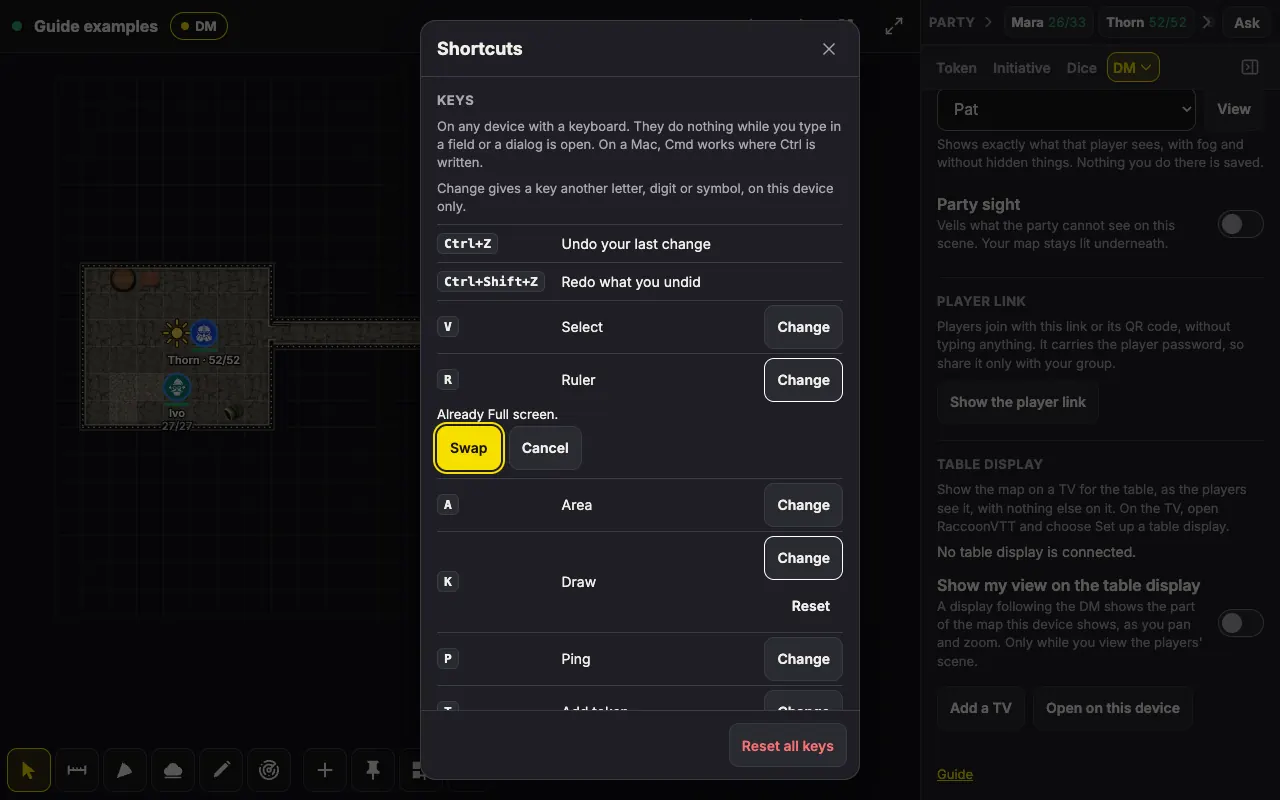
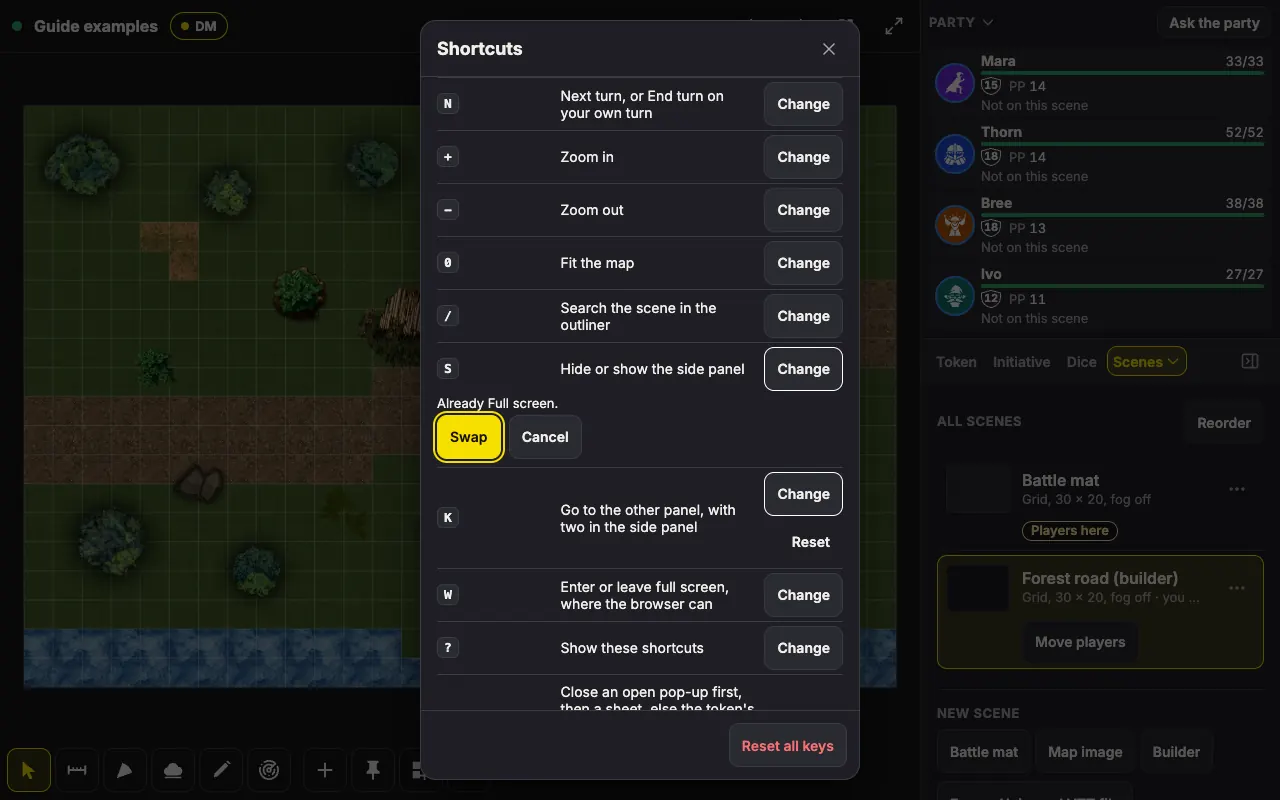
docs(guide): retake the shortcut list on a computer down to the W row, with Change, Reset and Swap clear of every row's words

diff --git a/docs/dm-guide.md b/docs/dm-guide.md
@@ -1036,7 +1036,7 @@ This part is for quick lookups during play, starting with the keys that save a D
 
 Press `?` (or open the Menu, then **This device**, then **Show the shortcuts**) for the full list of shortcuts for your role.
 
-![The shortcut list the ? key opens: Change beside each key, Reset beside Draw after its move to K, and Swap for Ruler, since Full screen already has W.](dm-guide/shortcuts.webp)
+![The shortcut list the ? key opens, down to W for full screen: Change beside each key, Reset under the other panel's key after its move to K, and Swap for the side panel's key, since Full screen already has W.](dm-guide/shortcuts.webp)
 
 These are the keys a DM uses most:
 
